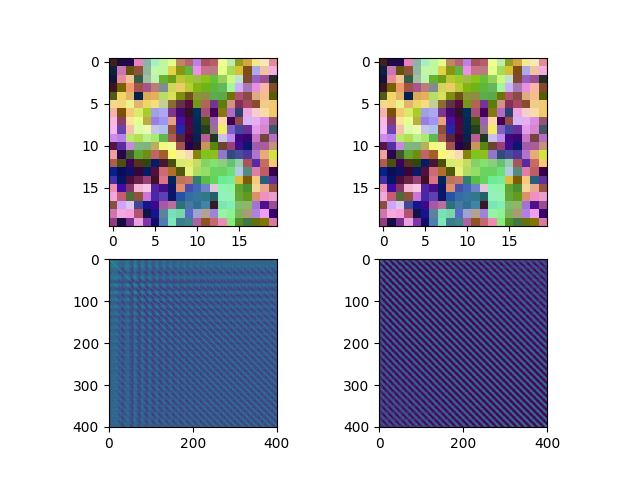
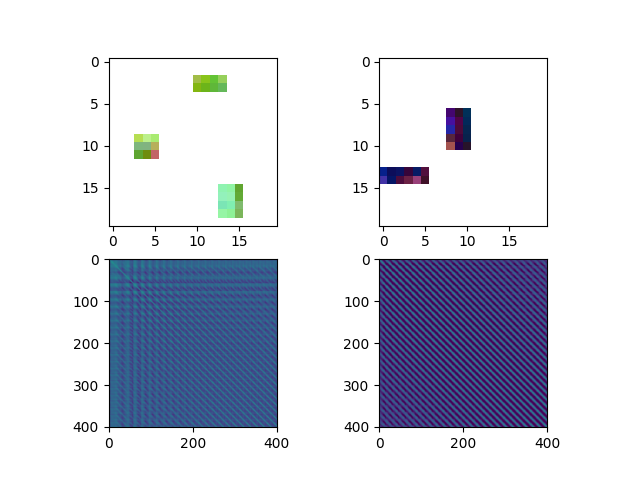
Fill with nans in cluster twotimes plot

Changed region(s): [[0.5938, 0.125, 0.875, 0.4688], [0.1562, 0.125, 0.4375, 0.4688]]

diff --git a/analyze_similar_features/make_plots.py b/analyze_similar_features/make_plots.py
@@ -40,7 +40,7 @@ for path in (Path.cwd() / 'results').glob('*.pkl'):
         img = np.ma.masked_array(r.umap_low_res_rgb[0, :, :, :], mask=True)
         for roi in cluster:
             img.mask[roi[0], roi[1], :] = False
-        axs[0, c].imshow(img)
+        axs[0, c].imshow(img.filled(np.nan))
         s0, s1, s2, s3, s4 = r.window_ttcf.shape
         mask = img.mask[:, :, 0]
         twotimes.append(r.window_ttcf.reshape(s0*s1*s2, s3, s4)[~mask.flatten(), :, :].mean(axis=0))
